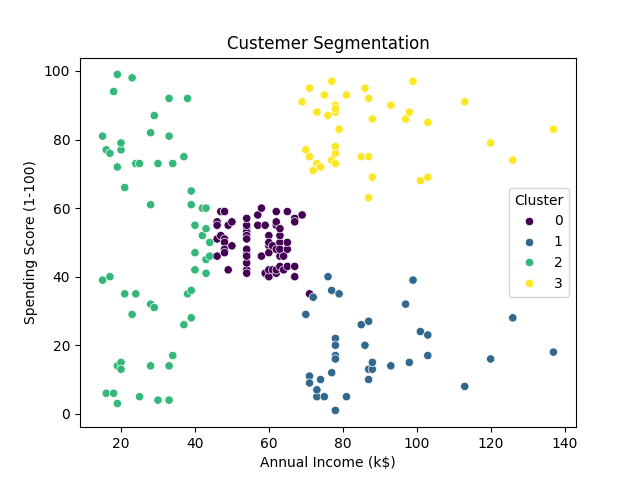
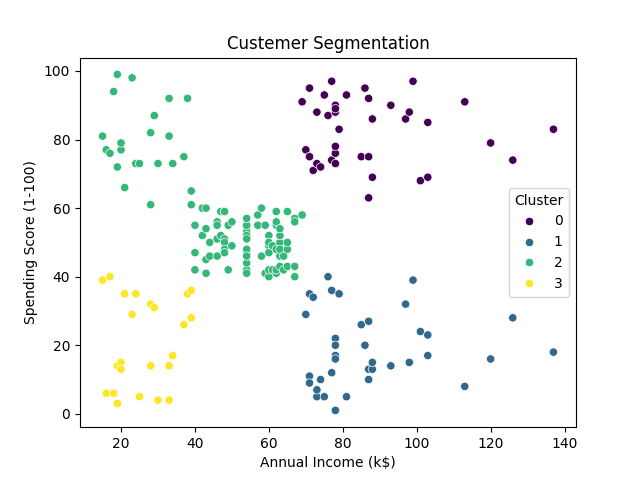
creating streamlit app for custemer segmentation

diff --git a/streamlit_app.py b/streamlit_app.py
@@ -1,0 +1,57 @@
+import streamlit as st
+import pandas as pd
+import joblib
+
+# Load models
+kmeans = joblib.load("outputs/models/K-Means_model.pkl")
+scaler = joblib.load("outputs/Scaler")
+
+# Define cluster labels (adjust after checking centroids)
+cluster_labels = {
+    0: "Premium Customers (High Income, High Spending)",
+    1: "Careful Customers (Low Income, Low Spending)",
+    2: "Cautious Customers (High Income, Low Spending)",
+    3: "Impulsive Customers (Low Income, High Spending)"
+}
+
+
+st.title("Customer Segmentation App")
+
+st.image("data/raw/custemer segmentation.png", caption="Customer Segmentation", use_container_width=True)
+
+st.subheader(" Customer Segments Explanation")
+st.write("""
+- **Low Income, Low Spending → "Careful Customers"**  
+  Don’t spend much, low income. Small target group.
+
+- **Low Income, High Spending → "Impulsive Customers"**  
+  Spend a lot relative to income. Could be risky but also high opportunity.
+
+- **High Income, Low Spending → "Cautious Customers"**  
+  Have money but don’t spend much. Need better engagement.
+
+- **High Income, High Spending → "Premium Customers"**  
+  High spenders with high income. Best customers (loyalty programs, premium offers).
+""")
+
+st.subheader(" Predict Your Segment")
+st.write("Enter your information to be assigned to a Customers cluster:")
+
+# User input
+Spending_Score = st.number_input("Spending Score (1-100)", min_value=1, max_value=99, value=50)
+Annual_Income = st.number_input("Annual Income (k$)", min_value=15, max_value=137, value=60)
+
+# convert to dataframe
+df = pd.DataFrame({
+    "Annual Income (k$)": [Annual_Income],
+    "Spending Score (1-100)": [Spending_Score]
+})
+
+# Scale input data
+scaled_df = scaler.transform(df)
+
+# Prediction
+if st.button("Predict Segment"):
+    cluster = kmeans.predict(scaled_df)[0]
+    label = cluster_labels[cluster]
+    st.success(f"Predicted Segment: {label}")

diff --git a/src/clustering.py b/src/clustering.py
@@ -8,10 +8,10 @@ import joblib
 # load the raw data
 df=pd.read_csv(r"C:\Users\user\Desktop\Elavvo ML Internship\Customer-Segmentation\data\processed\cleaned_Mall_Customers.csv")
 
-
+x=df[['Annual Income (k$)', 'Spending Score (1-100)']]
 # create an object
 scaler=StandardScaler()
-x=scaler.fit_transform(df)
+x=scaler.fit_transform(x)
 
 # use Elbow method to determine optimal number of clusters
 wcss=[]
@@ -30,13 +30,14 @@ plt.ylabel("wcss")
 # create object
 k_means=KMeans(init="k-means++",n_init=12,n_clusters=4)
 df["Cluster"]=k_means.fit_predict(x)
-print(df)
+
 
 # save the kmeans model 
 joblib.dump(k_means,r"C:\Users\user\Desktop\Elavvo ML Internship\Customer-Segmentation\outputs\models\K-Means_model.pkl")
 joblib.dump(scaler,r"C:\Users\user\Desktop\Elavvo ML Internship\Customer-Segmentation\outputs\Scaler")
 
 df.to_csv(r"C:\Users\user\Desktop\Elavvo ML Internship\Customer-Segmentation\data\processed\clustered_Mall_Customers.csv")
+print(x)
 
 
 

diff --git a/src/data_cleaning_and_processing.py b/src/data_cleaning_and_processing.py
@@ -25,6 +25,8 @@ print(f"min value of the 'Spending Score' {df['Spending Score (1-100)'].min()} "
 print(f"max value of the 'Spending Score' {df['Spending Score (1-100)'].max()} ")
 
 df=df[(df['Spending Score (1-100)']>=0)  &  (df['Spending Score (1-100)']<=100) ]
-print(df)
+print(df["Annual Income (k$)"].max())
+print(df["Annual Income (k$)"].min())
+
 
 df.to_csv(r"C:\Users\user\Desktop\Elavvo ML Internship\Customer-Segmentation\data\processed\cleaned_Mall_Customers.csv")

diff --git a/src/Model_evaluation.py b/src/Model_evaluation.py
@@ -31,6 +31,6 @@ metrics={
     "davies_bouldin_score:  ": de_score,
     "silhouette_score:  ": si_score
     }
-
+# save the values of the metrics
 with open (r"C:\Users\user\Desktop\Elavvo ML Internship\Customer-Segmentation\outputs\metrics.json","w") as f:
     json.dump(metrics,f)
